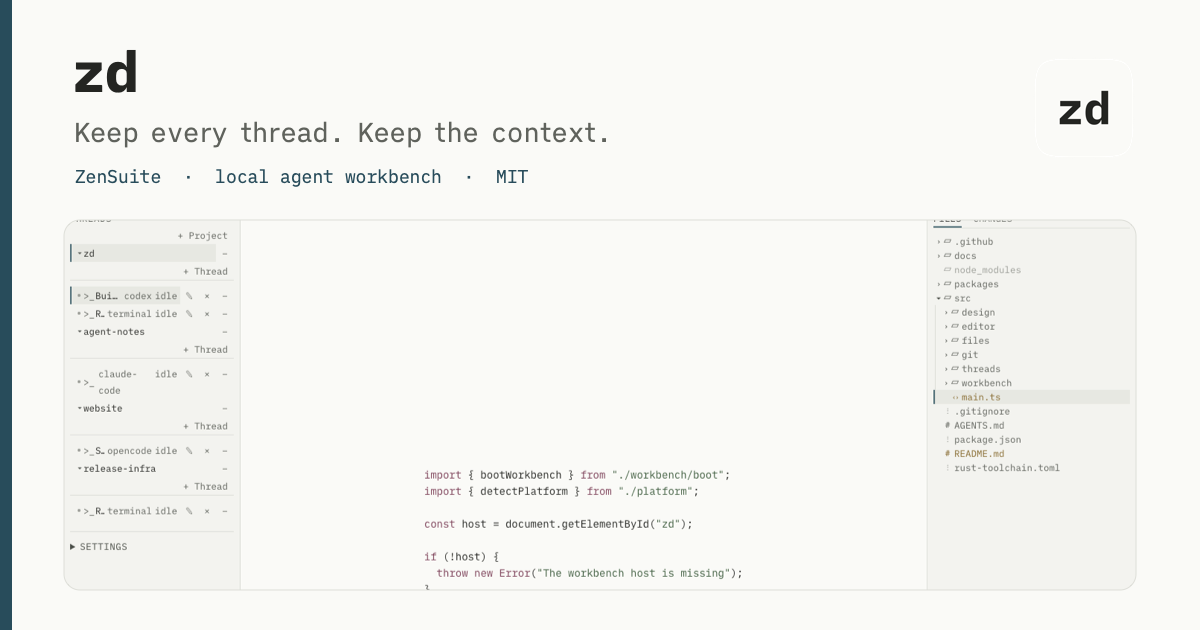
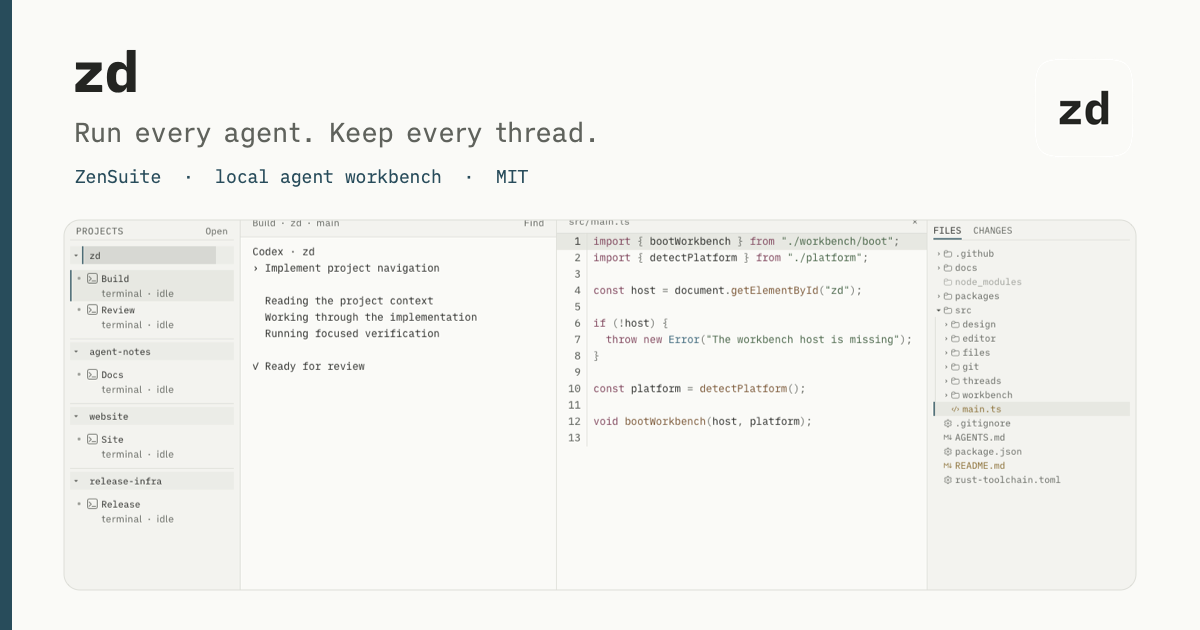
Refresh release website

diff --git a/packages/website/app/page.tsx b/packages/website/app/page.tsx
@@ -2,6 +2,8 @@ import Link from "next/link";
 import type { Metadata } from "next";
 
 import workbenchScreenshot from "../../../docs/user-facing-docs/assets/zd-workbench.png";
+import darkWorkbenchScreenshot from "../../../docs/user-facing-docs/assets/zd-workbench-dark.png";
+import draculaWorkbenchScreenshot from "../../../docs/user-facing-docs/assets/zd-workbench-dracula.png";
 import sideBySideScreenshot from "../../../docs/user-facing-docs/assets/zd-workbench-side-by-side.png";
 import { pageMetadata, RELEASE_URL, SITE_DESCRIPTION, softwareApplicationJsonLd } from "@/lib/site";
 
@@ -20,13 +22,13 @@ export default function Home() {
       <section className="hero">
         <p className="eyebrow">ZenSuite · local agent workbench</p>
         <h1>
-          Keep every thread.
+          Run every agent.
           <br />
-          Keep the context.
+          Keep every thread.
         </h1>
         <p className="hero-copy">
-          <code>zd</code> keeps projects, terminal-backed agent threads, files, and Git in one calm
-          local workbench.
+          <code>zd</code> keeps Codex, Claude Code, OpenCode, shells, source files, and Git in one
+          calm local workbench.
         </p>
         <div className="hero-actions">
           <a className="button button-primary" href={RELEASE_URL}>
@@ -41,18 +43,39 @@ export default function Home() {
 
       <section className="product" aria-labelledby="product-heading">
         <div className="section-heading">
-          <p className="eyebrow">One workbench</p>
-          <h2 id="product-heading">Projects and agent sessions stay visible together.</h2>
+          <p className="eyebrow">One view, three themes</p>
+          <h2 id="product-heading">See the agents and the code they are changing.</h2>
         </div>
-        <figure className="app-frame">
-          <img
-            src={workbenchScreenshot.src}
-            width={1440}
-            height={900}
-            alt="The light zd workbench with projects and terminal threads on the left, an editable file in the centre, and Files on the right"
-          />
+        <figure className="theme-stack">
+          <div className="theme-card" data-theme-card="light">
+            <span>Current Light</span>
+            <img
+              src={workbenchScreenshot.src}
+              width={1440}
+              height={900}
+              alt="The Current Light zd workbench with a Codex terminal running beside source code"
+            />
+          </div>
+          <div className="theme-card" data-theme-card="dark">
+            <span>Dark</span>
+            <img
+              src={darkWorkbenchScreenshot.src}
+              width={1440}
+              height={900}
+              alt="The Dark zd workbench with a Codex terminal running beside source code"
+            />
+          </div>
+          <div className="theme-card" data-theme-card="dracula">
+            <span>Dracula</span>
+            <img
+              src={draculaWorkbenchScreenshot.src}
+              width={1440}
+              height={900}
+              alt="The Dracula zd workbench with a Codex terminal running beside source code"
+            />
+          </div>
           <figcaption>
-            Project-scoped threads, the current file, and the compact file tree share one state.
+            Real workbench captures. Theme changes never move the project, thread, or file context.
           </figcaption>
         </figure>
       </section>
@@ -60,26 +83,26 @@ export default function Home() {
       <section className="features" aria-label="Product highlights">
         <article>
           <span className="feature-number">01</span>
-          <h2>Several projects</h2>
+          <h2>Move between projects</h2>
           <p>
-            Add only the folders you approve. Switch projects without tearing down inactive files or
-            terminal sessions.
+            Keep several approved folders open and jump to the previous or next project without
+            stopping inactive terminal sessions.
           </p>
         </article>
         <article>
           <span className="feature-number">02</span>
-          <h2>Terminal-backed threads</h2>
+          <h2>Start a thread here</h2>
           <p>
-            Organize shells, Codex, Claude Code, and OpenCode sessions by project root or Git
-            worktree.
+            Create a terminal in the current project root with one shortcut, then run the agent or
+            shell the work needs.
           </p>
         </article>
         <article>
           <span className="feature-number">03</span>
-          <h2>Files and Git</h2>
+          <h2>Keep source beside output</h2>
           <p>
-            Edit Markdown and code, filter a dense file tree, and inspect status, history,
-            comparisons, and read-only diffs.
+            Pair a terminal thread with the selected source while Files and read-only Git views stay
+            available on the right.
           </p>
         </article>
       </section>

diff --git a/packages/app/src/workbench/fixture.ts b/packages/app/src/workbench/fixture.ts
@@ -218,24 +218,45 @@ const changes: readonly GitChangeEntry[] = [
 
 const browser = detectPlatform();
 const terminalOutput = new Map<string, Uint8Array>();
+type FixtureAgent = "claude-code" | "codex" | "opencode" | "shell";
+type TerminalScene = { readonly agent: FixtureAgent; readonly task: string };
+const terminalScenes: TerminalScene[] = [];
 let terminalSequence = 0;
-const terminal: Platform["terminal"] = {
-  start: async (request) => {
-    const sessionId = `fixture-terminal-${++terminalSequence}`;
-    const project = projects.find(({ id }) => id === request.projectId);
-    const transcript = [
-      `zd · ${project?.name ?? "project"}`,
-      "$ git status --short",
-      " M README.md",
-      " M src/main.ts",
-      "?? src/notifications.ts",
-      "",
+
+function terminalTranscript(scene: TerminalScene | undefined, projectName: string): string {
+  if (!scene || scene.agent === "shell") {
+    return [
+      `zd · ${projectName}`,
       "$ npm run check",
       "types · lint · unit",
       "all checks passed",
       "",
       "$ ",
     ].join("\r\n");
+  }
+  const labels: Record<Exclude<FixtureAgent, "shell">, string> = {
+    "claude-code": "Claude Code",
+    codex: "Codex",
+    opencode: "OpenCode",
+  };
+  return [
+    `${labels[scene.agent]} · ${projectName}`,
+    `› ${scene.task}`,
+    "",
+    "  Reading the project context",
+    "  Working through the implementation",
+    "  Running focused verification",
+    "",
+    "✓ Ready for review",
+    "",
+  ].join("\r\n");
+}
+
+const terminal: Platform["terminal"] = {
+  start: async (request) => {
+    const sessionId = `fixture-terminal-${++terminalSequence}`;
+    const project = projects.find(({ id }) => id === request.projectId);
+    const transcript = terminalTranscript(terminalScenes.shift(), project?.name ?? "project");
     terminalOutput.set(sessionId, new TextEncoder().encode(transcript));
     return { projectId: request.projectId, worktreeId: request.worktreeId, sessionId };
   },
@@ -528,6 +549,20 @@ void bootWorkbench(host, platform, async (mountHost, context) => {
       fileEntries = [...fileEntries, file(relativePath)];
       fileTreeRevision += 1;
       publishFileTreeChange(resource);
+    },
+    queueTerminalScene(scene: TerminalScene) {
+      terminalScenes.push(scene);
+    },
+    async renameLatestThread(projectId: string, name: string) {
+      const thread = context.state
+        .snapshot()
+        .threads.filter((candidate) => candidate.projectId === projectId)
+        .sort((left, right) => right.order - left.order)[0];
+      if (!thread) throw new Error(`Project ${projectId} has no thread to rename`);
+      await context.state.renameThread(thread.id, name);
+    },
+    setTheme(theme: "current-light" | "dark" | "dracula") {
+      context.state.setThemeSelection(theme, theme);
     },
   };
   Object.assign(window, { workbenchDocumentationFixture: fixture });

diff --git a/packages/website/app/globals.css b/packages/website/app/globals.css
@@ -256,27 +256,74 @@ code {
   margin: 0;
 }
 
-.app-frame {
-  background: var(--transient);
-  border: 1px solid var(--line);
-  border-radius: 14px;
-  box-shadow: 0 26px 70px light-dark(rgb(36 37 34 / 10%), rgb(0 0 0 / 25%));
+.theme-stack {
+  height: clamp(360px, 70vw, 760px);
+  isolation: isolate;
   margin: 0;
-  overflow: hidden;
+  position: relative;
 }
 
-.app-frame img {
+.theme-card {
+  border: 1px solid rgb(255 255 255 / 16%);
+  border-radius: 10px;
+  box-shadow: 0 26px 70px rgb(0 0 0 / 28%);
+  overflow: hidden;
+  position: absolute;
+  width: 72%;
+}
+
+.theme-card > span {
+  display: block;
+  font-family: var(--mono);
+  font-size: 11px;
+  letter-spacing: 0.04em;
+  padding: 8px 11px;
+}
+
+.theme-card img {
   display: block;
   height: auto;
   width: 100%;
 }
 
-.app-frame figcaption {
-  border-top: 1px solid var(--line);
+.theme-card[data-theme-card="light"] {
+  background: #f5f5f1;
+  border-color: #d6d7d1;
+  color: #242522;
+  left: 0;
+  top: 0;
+  transform: rotate(-1.8deg);
+  z-index: 1;
+}
+
+.theme-card[data-theme-card="dark"] {
+  background: #1b1d1b;
+  color: #e5e2d9;
+  right: 0;
+  top: 13%;
+  transform: rotate(1.8deg);
+  z-index: 2;
+}
+
+.theme-card[data-theme-card="dracula"] {
+  background: #282a36;
+  color: #f8f8f2;
+  left: 14%;
+  top: 28%;
+  transform: rotate(-0.4deg);
+  z-index: 3;
+}
+
+.theme-stack figcaption {
+  bottom: 0;
   color: var(--secondary);
   font-family: var(--mono);
   font-size: 11px;
-  padding: 13px 16px;
+  position: absolute;
+  right: 0;
+  text-align: right;
+  width: min(46%, 460px);
+  z-index: 4;
 }
 
 .features {
@@ -476,6 +523,24 @@ footer {
   .closing {
     border-radius: 0;
     margin-bottom: 40px;
+  }
+
+  .theme-card {
+    width: 86%;
+  }
+
+  .theme-card[data-theme-card="dark"] {
+    top: 16%;
+  }
+
+  .theme-card[data-theme-card="dracula"] {
+    left: 7%;
+    top: 32%;
+  }
+
+  .theme-stack figcaption {
+    text-align: left;
+    width: 100%;
   }
 }
 

diff --git a/packages/scripts/tests/unit/release/promo/assets.test.ts b/packages/scripts/tests/unit/release/promo/assets.test.ts
@@ -7,6 +7,8 @@ import { describe, expect, it } from "vitest";
 const ROOT = resolve(process.cwd());
 const SCREENSHOT = resolve(ROOT, "docs/user-facing-docs/assets/zd-workbench.png");
 const SIDE_BY_SIDE = resolve(ROOT, "docs/user-facing-docs/assets/zd-workbench-side-by-side.png");
+const DARK = resolve(ROOT, "docs/user-facing-docs/assets/zd-workbench-dark.png");
+const DRACULA = resolve(ROOT, "docs/user-facing-docs/assets/zd-workbench-dracula.png");
 const SOCIAL_CARD = resolve(ROOT, "docs/user-facing-docs/assets/zd-social-card.png");
 
 function pngDimensions(path: string) {
@@ -40,14 +42,32 @@ describe("the workbench promotional kit", () => {
     expect(readme).toMatch(/!\[[^\]]*workbench[^\]]*\]/i);
   });
 
+  it("captures the current one-click thread flow in all three bundled themes", () => {
+    const capture = readFileSync(
+      resolve(ROOT, "packages/scripts/release/capture-workbench.mjs"),
+      "utf8",
+    );
+
+    expect(capture).not.toMatch(/data-thread-create(?!-toggle)/);
+    expect(existsSync(DARK)).toBe(true);
+    expect(existsSync(DRACULA)).toBe(true);
+    expect(pngDimensions(DARK)).toEqual({ width: 1440, height: 900 });
+    expect(pngDimensions(DRACULA)).toEqual({ width: 1440, height: 900 });
+  });
+
   it("provides a social preview at the exact sharing-card size", () => {
     const manifest = JSON.parse(readFileSync(resolve(ROOT, "package.json"), "utf8")) as {
       scripts: Record<string, string>;
     };
+    const renderer = readFileSync(
+      resolve(ROOT, "packaging/macos/render-social-card.swift"),
+      "utf8",
+    );
 
     expect(existsSync(SOCIAL_CARD)).toBe(true);
     expect(pngDimensions(SOCIAL_CARD)).toEqual({ width: 1200, height: 630 });
     expect(manifest.scripts["promo:render"]).toContain("render-social-card.swift");
+    expect(renderer).toContain("Run every agent. Keep every thread.");
   });
 
   it("keeps honest release limits beside the public download guidance", () => {

diff --git a/packages/scripts/tests/unit/repository/layout.test.ts b/packages/scripts/tests/unit/repository/layout.test.ts
@@ -191,7 +191,10 @@ describe("static website", () => {
     expect(home).toContain("/docs/");
     expect(home).toContain("RELEASE_URL");
     expect(home).toContain("docs/user-facing-docs/assets/zd-workbench.png");
+    expect(home).toContain("docs/user-facing-docs/assets/zd-workbench-dark.png");
+    expect(home).toContain("docs/user-facing-docs/assets/zd-workbench-dracula.png");
     expect(home).toContain("docs/user-facing-docs/assets/zd-workbench-side-by-side.png");
+    expect(home).toContain('className="theme-stack"');
     expect(existsSync(resolve(WEBSITE, "public/screenshots"))).toBe(false);
   });
 

diff --git a/packages/website/lib/site.ts b/packages/website/lib/site.ts
@@ -8,7 +8,7 @@ export const SITE_URL = new URL("https://getzensuite.com");
 export const SITE_NAME = "zd";
 export const HOME_TITLE = "zd — A fast, local agent workbench";
 export const SITE_DESCRIPTION =
-  "ZenSuite’s fast, local agent workbench for projects, threads, terminals, files, and Git.";
+  "Run terminal-backed coding agents beside their projects, source files, and Git in one fast, local workbench.";
 export const REPOSITORY_URL = "https://github.com/iammrduncan/zd";
 export const RELEASE_URL = `${REPOSITORY_URL}/releases/latest`;
 

diff --git a/packaging/macos/render-social-card.swift b/packaging/macos/render-social-card.swift
@@ -87,7 +87,7 @@ context.setFillColor(accent)
 context.fill(CGRect(x: 0, y: 0, width: 12, height: height))
 
 drawText("zd", font: bold, color: ink, x: 72, baseline: 538)
-drawText("Keep every thread. Keep the context.", font: prose, color: quiet, x: 74, baseline: 488)
+drawText("Run every agent. Keep every thread.", font: prose, color: quiet, x: 74, baseline: 488)
 drawText("ZenSuite  ·  local agent workbench  ·  MIT", font: mono, color: accent, x: 75, baseline: 447)
 
 context.interpolationQuality = .high
